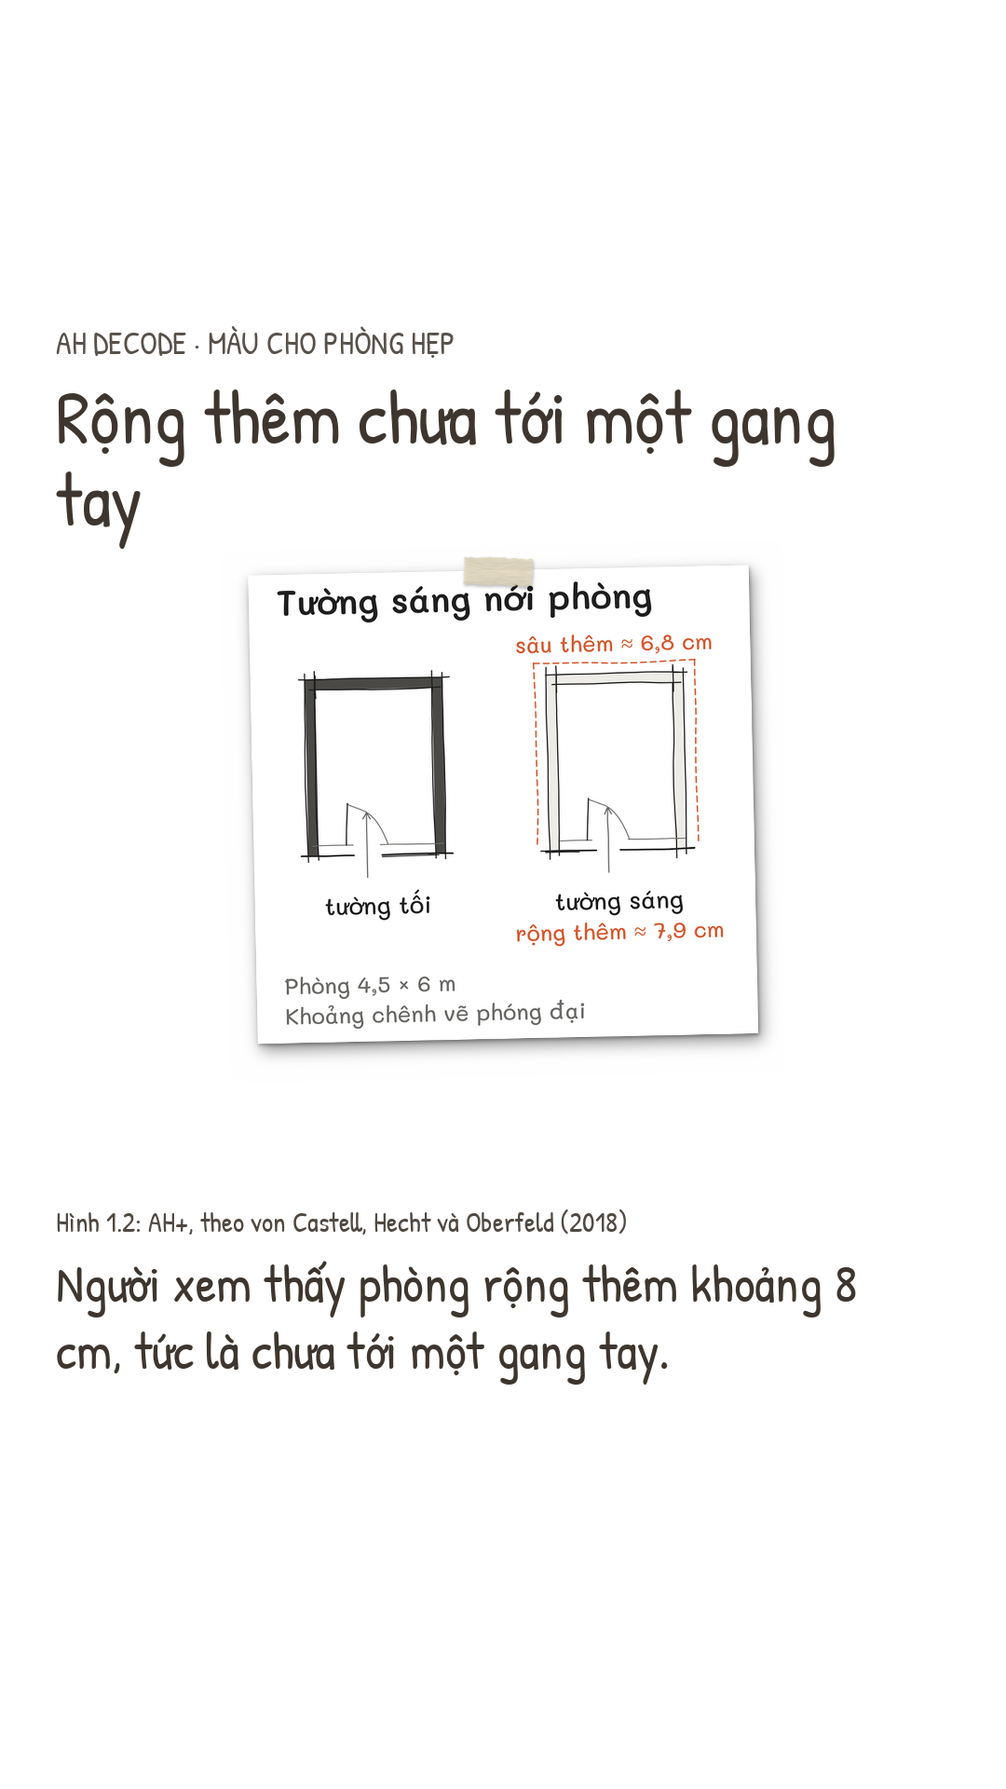
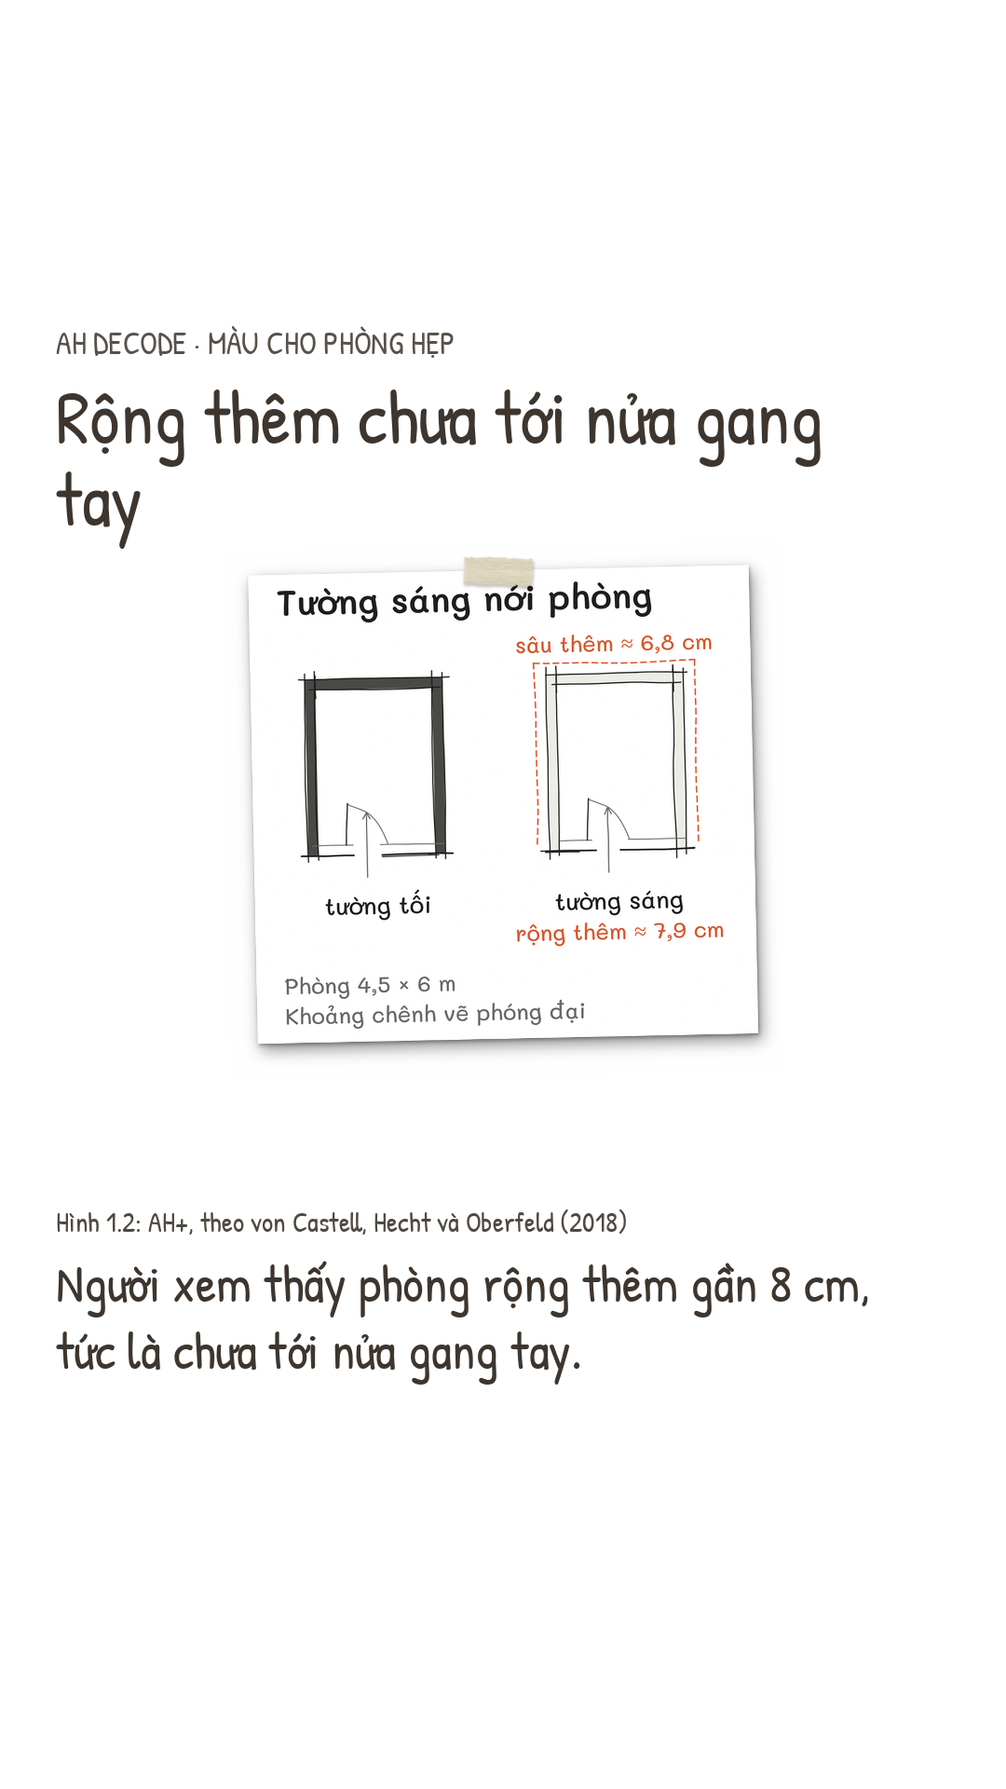
Tập 14 bản 5 (đang chấm): sửa theo lượt chấm 4
Claude-Session: https://claude.ai/code/session_019AkacrN2cHr4dR9oivn2Ju

Changed region(s): [[0.0611, 0.75, 0.6722, 0.7812], [0.6722, 0.6875, 0.8556, 0.75], [0.5806, 0.2188, 0.825, 0.2812]]

diff --git a/inbox/out/2026-10-28_tuong-sang-phong-rong/engine_ep14/gen_ep14.py b/inbox/out/2026-10-28_tuong-sang-phong-rong/engine_ep14/gen_ep14.py
@@ -50,26 +50,32 @@ SC = [
     dict(move="push", part="A", blk=1, img="hanh", head="Phòng hẹp và màu sơn trắng", cam=STRIP(600, 715, 0.545, 865), free=True, dark=False, dd=[],
          vo="Sơn trắng cho phòng hẹp trông rộng hơn, nhưng rộng thêm được bao nhiêu?"),
     dict(move="push", part="C", blk=2, img="dg", head="Thí nghiệm của von Castell và cộng sự (2018)", cam=STRIP(324, 303, 0.56, 863), free=True, dark=False, dd=[],
-         vo="Năm 2018, nhóm của von Castell thử sơn sáng hơn hai bức tường bên của một căn phòng.",
-         tts="Năm hai nghìn không trăm mười tám, nhóm của phôn Cát-xten thử sơn sáng hơn hai bức tường bên của một căn phòng."),
-    dict(move="pan_r", part="C", blk=2, img="dg", head="Rộng thêm chưa tới một gang tay", cam=STRIP(324, 303, 0.56, 863), free=True, dark=False, dd=[],
-         vo="Người xem thấy phòng rộng thêm khoảng 8 cm, tức là chưa tới một gang tay.",
-         tts="Người xem thấy phòng rộng thêm khoảng tám xăng-ti-mét, tức là chưa tới một gang tay."),
-    dict(move="pan_d", part="C", blk=3, img="khe", head="Tường và trần càng sáng càng tốt", cam=STRIP(582, 550, 0.57, 863), free=True, dark=True, dd=["a_tran", "lab_tran", "a_tuong", "lab_tuong"],
-         vo="Nghĩa là sơn trắng có giúp, nhưng chỉ giúp một chút, và nhóm này khuyên sơn tường và trần sáng nhất có thể."),
+         vo="Năm 2018, nhóm của von Castell thử sơn sáng hơn hai bức tường bên của một căn phòng ảo cỡ thật.",
+         tts="Năm hai nghìn không trăm mười tám, nhóm của phôn Cát-xten thử sơn sáng hơn hai bức tường bên của một căn phòng ảo cỡ thật."),
+    dict(move="pan_r", part="C", blk=2, img="dg", head="Rộng thêm chưa tới nửa gang tay", cam=STRIP(324, 303, 0.56, 863), free=True, dark=False, dd=[],
+         vo="Người xem thấy phòng rộng thêm gần 8 cm, tức là chưa tới nửa gang tay.",
+         tts="Người xem thấy phòng rộng thêm gần tám xăng-ti-mét, tức là chưa tới nửa gang tay."),
+    dict(move="pan_d", part="C", blk=3, img="khe", head="Sơn sáng chỉ nới phòng một chút", cam=STRIP(582, 550, 0.57, 863), free=True, dark=True, dd=[],
+         vo="Nghĩa là sơn sáng có làm phòng trông rộng hơn, nhưng chỉ một chút."),
+    dict(move="hold", part="C", blk=3, img="khe", head="Tường và trần càng sáng càng tốt", cam=STRIP(582, 550, 0.57, 863), free=True, dark=True, dd=["a_tran", "lab_tran", "a_tuong", "lab_tuong"],
+         vo="Dù vậy, chính nhóm này vẫn khuyên sơn tường và trần sáng nhất có thể."),
     dict(move="push", part="F", blk=3, img="hanh", head="Áp dụng ở nhà mình", cam=STRIP(600, 715, 0.545, 865), free=True, dark=True, dd=["khuon", "len_l", "len_r", "lab_cung"],
          vo="Ở nhà mình, nên sơn tường, khuôn cửa và len chân tường cùng một màu sáng, để cả phòng cùng sáng."),
     dict(move="push", part="D", blk=4, img="banan", head="Ánh sáng phải vào nhà trước", cam=STRIP(600, 474, 0.68, 863), free=True, dark=True, dd=["a_kinh", "lab_vao"],
          vo="Nhưng sơn chỉ giữ lại được ánh sáng đã vào nhà."),
+    dict(move="hold", part="D", blk=4, img="banan", head="Pawson House, London (1997–1999)", cam=STRIP(600, 474, 0.68, 863), free=True, dark=True, dd=[],
+         vo="Nhà riêng của kiến trúc sư John Pawson ở London từng có nhiều phòng nhỏ và tối.",
+         tts="Nhà riêng của kiến trúc sư Giôn Pô-xơn ở Luân Đôn từng có nhiều phòng nhỏ và tối."),
     dict(move="hold", part="D", blk=4, img="banan", head="Pawson House, London (1997–1999)", cam=STRIP(600, 474, 0.68, 863), free=True, dark=True, dd=["kinh", "lab_kinh"],
-         vo="Ở nhà riêng của kiến trúc sư John Pawson tại London, ánh sáng vào qua vách kính ra vườn,",
-         tts="Ở nhà riêng của kiến trúc sư Giôn Pô-xơn tại Luân Đôn, ánh sáng vào qua vách kính ra vườn,"),
+         vo="Khi cải tạo, ông mở vách kính ra vườn cho ánh sáng vào,"),
     dict(move="push", part="D", blk=4, img="thang", head="Tường trắng và sàn đá", cam=STRIP(316, 280, 0.57, 863), free=True, dark=True, dd=["tw", "lab_tw"],
          vo="rồi tường sơn trắng"),
     dict(move="pan_r", part="D", blk=4, img="bep", head="Tường trắng và sàn đá", cam=STRIP(600, 474, 0.68, 863), free=True, dark=True, dd=["san", "lab_san"],
          vo="và sàn lát đá giữ ánh sáng ấy lại."),
     dict(move="pull", part="H", blk=5, img="hanh", head="Thứ tự cho phòng hẹp", cam=STRIP(600, 715, 0.545, 865), free=True, dark=False, dd=[],
-         vo="Vậy với phòng hẹp, hãy lo ánh sáng trước, rồi mới chọn màu sơn thật sáng."),
+         vo="Vậy với phòng hẹp, hãy lo đưa ánh sáng vào trước,"),
+    dict(move="hold", part="H", blk=5, img="hanh", head="Thứ tự cho phòng hẹp", cam=STRIP(600, 715, 0.545, 865), free=True, dark=False, dd=[],
+         vo="như bỏ bớt vách ngăn hay thêm đèn hắt tường ở cuối phòng, rồi mới chọn màu sơn thật sáng."),
     dict(move="push", part="I", blk=5, img="banan", head="end", cam="END", dark=False, vo="", dd=[],
          say="Sổ tay Công thức chọn màu nội thất dành cho thành viên có bảng tra nhanh mười bảy tình huống chọn màu, mọi người xem ở phần bình luận."),
 ]

diff --git a/inbox/out/2026-10-28_tuong-sang-phong-rong/engine_ep14/engine_ep14_r03_khe.py b/inbox/out/2026-10-28_tuong-sang-phong-rong/engine_ep14/engine_ep14_r03_khe.py
@@ -551,11 +551,13 @@ OBJ = {}
 
 WIDE = WIDE_SAFE
 SCENES = [
-    dict(t="0–5.7s", head="Rộng thêm chưa tới một gang tay", vo="Người xem thấy phòng rộng thêm khoảng 8 cm, tức là chưa tới một gang tay.",
+    dict(t="0–5.7s", head="Rộng thêm chưa tới nửa gang tay", vo="Người xem thấy phòng rộng thêm gần 8 cm, tức là chưa tới nửa gang tay.",
          cam=((582, 550), 0.57, (540, 863)), dark=False, dd=[], move="hold"),
-    dict(t="5.7–13.59s", head="Tường và trần càng sáng càng tốt", vo="Nghĩa là sơn trắng có giúp, nhưng chỉ giúp một chút, và nhóm này khuyên sơn tường và trần sáng nhất có thể.",
-         cam=((582, 550), 0.57, (540, 863)), dark=True, dd=['a_tran', 'lab_tran', 'a_tuong', 'lab_tuong'], move="pan_d"),
-    dict(t="13.59–14.09s", head="end", vo="",
+    dict(t="5.7–10.77s", head="Sơn sáng chỉ nới phòng một chút", vo="Nghĩa là sơn sáng có làm phòng trông rộng hơn, nhưng chỉ một chút.",
+         cam=((582, 550), 0.57, (540, 863)), dark=True, dd=[], move="pan_d"),
+    dict(t="10.77–16.16s", head="Tường và trần càng sáng càng tốt", vo="Dù vậy, chính nhóm này vẫn khuyên sơn tường và trần sáng nhất có thể.",
+         cam=((582, 550), 0.57, (540, 863)), dark=True, dd=['a_tran', 'lab_tran', 'a_tuong', 'lab_tuong'], move="hold"),
+    dict(t="16.16–16.66s", head="end", vo="",
          cam=END_SAFE, dark=False, dd=[], move="hold"),
 ]
 END = len(SCENES) - 1

diff --git a/inbox/out/2026-10-28_tuong-sang-phong-rong/engine_ep14/engine_video_ep14_r03_khe.py b/inbox/out/2026-10-28_tuong-sang-phong-rong/engine_ep14/engine_video_ep14_r03_khe.py
@@ -552,11 +552,13 @@ OBJ = {}
 
 WIDE = WIDE_SAFE
 SCENES = [
-    dict(t="0–5.7s", head="Rộng thêm chưa tới một gang tay", vo="Người xem thấy phòng rộng thêm khoảng 8 cm, tức là chưa tới một gang tay.",
+    dict(t="0–5.7s", head="Rộng thêm chưa tới nửa gang tay", vo="Người xem thấy phòng rộng thêm gần 8 cm, tức là chưa tới nửa gang tay.",
          cam=((582, 550), 0.57, (540, 863)), dark=False, dd=[], move="hold"),
-    dict(t="5.7–13.59s", head="Tường và trần càng sáng càng tốt", vo="Nghĩa là sơn trắng có giúp, nhưng chỉ giúp một chút, và nhóm này khuyên sơn tường và trần sáng nhất có thể.",
-         cam=((582, 550), 0.57, (540, 863)), dark=True, dd=['a_tran', 'lab_tran', 'a_tuong', 'lab_tuong'], move="pan_d"),
-    dict(t="13.59–14.09s", head="end", vo="",
+    dict(t="5.7–10.77s", head="Sơn sáng chỉ nới phòng một chút", vo="Nghĩa là sơn sáng có làm phòng trông rộng hơn, nhưng chỉ một chút.",
+         cam=((582, 550), 0.57, (540, 863)), dark=True, dd=[], move="pan_d"),
+    dict(t="10.77–16.16s", head="Tường và trần càng sáng càng tốt", vo="Dù vậy, chính nhóm này vẫn khuyên sơn tường và trần sáng nhất có thể.",
+         cam=((582, 550), 0.57, (540, 863)), dark=True, dd=['a_tran', 'lab_tran', 'a_tuong', 'lab_tuong'], move="hold"),
+    dict(t="16.16–16.66s", head="end", vo="",
          cam=END_SAFE, dark=False, dd=[], move="hold"),
 ]
 END = len(SCENES) - 1

diff --git a/inbox/out/2026-10-28_tuong-sang-phong-rong/engine_ep14/engine_ep14_r02_dg.py b/inbox/out/2026-10-28_tuong-sang-phong-rong/engine_ep14/engine_ep14_r02_dg.py
@@ -553,11 +553,11 @@ WIDE = WIDE_SAFE
 SCENES = [
     dict(t="0–5.08s", head="Phòng hẹp và màu sơn trắng", vo="Sơn trắng cho phòng hẹp trông rộng hơn, nhưng rộng thêm được bao nhiêu?",
          cam=((324, 303), 0.56, (540, 863)), dark=False, dd=[], move="hold"),
-    dict(t="5.08–11.41s", head="Thí nghiệm của von Castell và cộng sự (2018)", vo="Năm 2018, nhóm của von Castell thử sơn sáng hơn hai bức tường bên của một căn phòng.",
+    dict(t="5.08–12.34s", head="Thí nghiệm của von Castell và cộng sự (2018)", vo="Năm 2018, nhóm của von Castell thử sơn sáng hơn hai bức tường bên của một căn phòng ảo cỡ thật.",
          cam=((324, 303), 0.56, (540, 863)), dark=False, dd=[], move="push"),
-    dict(t="11.41–17.11s", head="Rộng thêm chưa tới một gang tay", vo="Người xem thấy phòng rộng thêm khoảng 8 cm, tức là chưa tới một gang tay.",
+    dict(t="12.34–18.04s", head="Rộng thêm chưa tới nửa gang tay", vo="Người xem thấy phòng rộng thêm gần 8 cm, tức là chưa tới nửa gang tay.",
          cam=((324, 303), 0.56, (540, 863)), dark=False, dd=[], move="pan_r"),
-    dict(t="17.11–17.61s", head="end", vo="",
+    dict(t="18.04–18.54s", head="end", vo="",
          cam=END_SAFE, dark=False, dd=[], move="hold"),
 ]
 END = len(SCENES) - 1

diff --git a/inbox/out/2026-10-28_tuong-sang-phong-rong/engine_ep14/engine_video_ep14_r02_dg.py b/inbox/out/2026-10-28_tuong-sang-phong-rong/engine_ep14/engine_video_ep14_r02_dg.py
@@ -554,11 +554,11 @@ WIDE = WIDE_SAFE
 SCENES = [
     dict(t="0–5.08s", head="Phòng hẹp và màu sơn trắng", vo="Sơn trắng cho phòng hẹp trông rộng hơn, nhưng rộng thêm được bao nhiêu?",
          cam=((324, 303), 0.56, (540, 863)), dark=False, dd=[], move="hold"),
-    dict(t="5.08–11.41s", head="Thí nghiệm của von Castell và cộng sự (2018)", vo="Năm 2018, nhóm của von Castell thử sơn sáng hơn hai bức tường bên của một căn phòng.",
+    dict(t="5.08–12.34s", head="Thí nghiệm của von Castell và cộng sự (2018)", vo="Năm 2018, nhóm của von Castell thử sơn sáng hơn hai bức tường bên của một căn phòng ảo cỡ thật.",
          cam=((324, 303), 0.56, (540, 863)), dark=False, dd=[], move="push"),
-    dict(t="11.41–17.11s", head="Rộng thêm chưa tới một gang tay", vo="Người xem thấy phòng rộng thêm khoảng 8 cm, tức là chưa tới một gang tay.",
+    dict(t="12.34–18.04s", head="Rộng thêm chưa tới nửa gang tay", vo="Người xem thấy phòng rộng thêm gần 8 cm, tức là chưa tới nửa gang tay.",
          cam=((324, 303), 0.56, (540, 863)), dark=False, dd=[], move="pan_r"),
-    dict(t="17.11–17.61s", head="end", vo="",
+    dict(t="18.04–18.54s", head="end", vo="",
          cam=END_SAFE, dark=False, dd=[], move="hold"),
 ]
 END = len(SCENES) - 1

diff --git a/inbox/out/2026-10-28_tuong-sang-phong-rong/engine_ep14/engine_ep14_r04_hanh.py b/inbox/out/2026-10-28_tuong-sang-phong-rong/engine_ep14/engine_ep14_r04_hanh.py
@@ -551,11 +551,11 @@ OBJ = {}
 
 WIDE = WIDE_SAFE
 SCENES = [
-    dict(t="0–7.89s", head="Tường và trần càng sáng càng tốt", vo="Nghĩa là sơn trắng có giúp, nhưng chỉ giúp một chút, và nhóm này khuyên sơn tường và trần sáng nhất có thể.",
+    dict(t="0–5.39s", head="Tường và trần càng sáng càng tốt", vo="Dù vậy, chính nhóm này vẫn khuyên sơn tường và trần sáng nhất có thể.",
          cam=((600, 715), 0.545, (540, 865)), dark=True, dd=[], move="hold"),
-    dict(t="7.89–15.15s", head="Áp dụng ở nhà mình", vo="Ở nhà mình, nên sơn tường, khuôn cửa và len chân tường cùng một màu sáng, để cả phòng cùng sáng.",
+    dict(t="5.39–12.65s", head="Áp dụng ở nhà mình", vo="Ở nhà mình, nên sơn tường, khuôn cửa và len chân tường cùng một màu sáng, để cả phòng cùng sáng.",
          cam=((600, 715), 0.545, (540, 865)), dark=True, dd=['khuon', 'len_l', 'len_r', 'lab_cung'], move="push"),
-    dict(t="15.15–15.65s", head="end", vo="",
+    dict(t="12.65–13.15s", head="end", vo="",
          cam=END_SAFE, dark=False, dd=[], move="hold"),
 ]
 END = len(SCENES) - 1

diff --git a/inbox/out/2026-10-28_tuong-sang-phong-rong/engine_ep14/engine_video_ep14_r04_hanh.py b/inbox/out/2026-10-28_tuong-sang-phong-rong/engine_ep14/engine_video_ep14_r04_hanh.py
@@ -552,11 +552,11 @@ OBJ = {}
 
 WIDE = WIDE_SAFE
 SCENES = [
-    dict(t="0–7.89s", head="Tường và trần càng sáng càng tốt", vo="Nghĩa là sơn trắng có giúp, nhưng chỉ giúp một chút, và nhóm này khuyên sơn tường và trần sáng nhất có thể.",
+    dict(t="0–5.39s", head="Tường và trần càng sáng càng tốt", vo="Dù vậy, chính nhóm này vẫn khuyên sơn tường và trần sáng nhất có thể.",
          cam=((600, 715), 0.545, (540, 865)), dark=True, dd=[], move="hold"),
-    dict(t="7.89–15.15s", head="Áp dụng ở nhà mình", vo="Ở nhà mình, nên sơn tường, khuôn cửa và len chân tường cùng một màu sáng, để cả phòng cùng sáng.",
+    dict(t="5.39–12.65s", head="Áp dụng ở nhà mình", vo="Ở nhà mình, nên sơn tường, khuôn cửa và len chân tường cùng một màu sáng, để cả phòng cùng sáng.",
          cam=((600, 715), 0.545, (540, 865)), dark=True, dd=['khuon', 'len_l', 'len_r', 'lab_cung'], move="push"),
-    dict(t="15.15–15.65s", head="end", vo="",
+    dict(t="12.65–13.15s", head="end", vo="",
          cam=END_SAFE, dark=False, dd=[], move="hold"),
 ]
 END = len(SCENES) - 1

diff --git a/inbox/out/2026-10-28_tuong-sang-phong-rong/engine_ep14/engine_ep14_r05_banan.py b/inbox/out/2026-10-28_tuong-sang-phong-rong/engine_ep14/engine_ep14_r05_banan.py
@@ -555,9 +555,11 @@ SCENES = [
          cam=((600, 474), 0.68, (540, 863)), dark=True, dd=[], move="hold"),
     dict(t="7.26–11.4s", head="Ánh sáng phải vào nhà trước", vo="Nhưng sơn chỉ giữ lại được ánh sáng đã vào nhà.",
          cam=((600, 474), 0.68, (540, 863)), dark=True, dd=['a_kinh', 'lab_vao'], move="push"),
-    dict(t="11.4–18.04s", head="Pawson House, London (1997–1999)", vo="Ở nhà riêng của kiến trúc sư John Pawson tại London, ánh sáng vào qua vách kính ra vườn,",
+    dict(t="11.4–17.41s", head="Pawson House, London (1997–1999)", vo="Nhà riêng của kiến trúc sư John Pawson ở London từng có nhiều phòng nhỏ và tối.",
+         cam=((600, 474), 0.68, (540, 863)), dark=True, dd=[], move="hold"),
+    dict(t="17.41–22.17s", head="Pawson House, London (1997–1999)", vo="Khi cải tạo, ông mở vách kính ra vườn cho ánh sáng vào,",
          cam=((600, 474), 0.68, (540, 863)), dark=True, dd=['kinh', 'lab_kinh'], move="hold"),
-    dict(t="18.04–18.54s", head="end", vo="",
+    dict(t="22.17–22.67s", head="end", vo="",
          cam=END_SAFE, dark=False, dd=[], move="hold"),
 ]
 END = len(SCENES) - 1

diff --git a/inbox/out/2026-10-28_tuong-sang-phong-rong/engine_ep14/engine_video_ep14_r05_banan.py b/inbox/out/2026-10-28_tuong-sang-phong-rong/engine_ep14/engine_video_ep14_r05_banan.py
@@ -556,9 +556,11 @@ SCENES = [
          cam=((600, 474), 0.68, (540, 863)), dark=True, dd=[], move="hold"),
     dict(t="7.26–11.4s", head="Ánh sáng phải vào nhà trước", vo="Nhưng sơn chỉ giữ lại được ánh sáng đã vào nhà.",
          cam=((600, 474), 0.68, (540, 863)), dark=True, dd=['a_kinh', 'lab_vao'], move="push"),
-    dict(t="11.4–18.04s", head="Pawson House, London (1997–1999)", vo="Ở nhà riêng của kiến trúc sư John Pawson tại London, ánh sáng vào qua vách kính ra vườn,",
+    dict(t="11.4–17.41s", head="Pawson House, London (1997–1999)", vo="Nhà riêng của kiến trúc sư John Pawson ở London từng có nhiều phòng nhỏ và tối.",
+         cam=((600, 474), 0.68, (540, 863)), dark=True, dd=[], move="hold"),
+    dict(t="17.41–22.17s", head="Pawson House, London (1997–1999)", vo="Khi cải tạo, ông mở vách kính ra vườn cho ánh sáng vào,",
          cam=((600, 474), 0.68, (540, 863)), dark=True, dd=['kinh', 'lab_kinh'], move="hold"),
-    dict(t="18.04–18.54s", head="end", vo="",
+    dict(t="22.17–22.67s", head="end", vo="",
          cam=END_SAFE, dark=False, dd=[], move="hold"),
 ]
 END = len(SCENES) - 1

diff --git a/inbox/out/2026-10-28_tuong-sang-phong-rong/engine_ep14/engine_ep14_r08_hanh.py b/inbox/out/2026-10-28_tuong-sang-phong-rong/engine_ep14/engine_ep14_r08_hanh.py
@@ -553,9 +553,11 @@ WIDE = WIDE_SAFE
 SCENES = [
     dict(t="0–3.51s", head="Tường trắng và sàn đá", vo="và sàn lát đá giữ ánh sáng ấy lại.",
          cam=((600, 715), 0.545, (540, 865)), dark=True, dd=[], move="hold"),
-    dict(t="3.51–9.21s", head="Thứ tự cho phòng hẹp", vo="Vậy với phòng hẹp, hãy lo ánh sáng trước, rồi mới chọn màu sơn thật sáng.",
+    dict(t="3.51–7.65s", head="Thứ tự cho phòng hẹp", vo="Vậy với phòng hẹp, hãy lo đưa ánh sáng vào trước,",
          cam=((600, 715), 0.545, (540, 865)), dark=False, dd=[], move="pull"),
-    dict(t="9.21–9.71s", head="end", vo="",
+    dict(t="7.65–14.6s", head="Thứ tự cho phòng hẹp", vo="như bỏ bớt vách ngăn hay thêm đèn hắt tường ở cuối phòng, rồi mới chọn màu sơn thật sáng.",
+         cam=((600, 715), 0.545, (540, 865)), dark=False, dd=[], move="hold"),
+    dict(t="14.6–15.1s", head="end", vo="",
          cam=END_SAFE, dark=False, dd=[], move="hold"),
 ]
 END = len(SCENES) - 1

diff --git a/inbox/out/2026-10-28_tuong-sang-phong-rong/engine_ep14/engine_video_ep14_r08_hanh.py b/inbox/out/2026-10-28_tuong-sang-phong-rong/engine_ep14/engine_video_ep14_r08_hanh.py
@@ -554,9 +554,11 @@ WIDE = WIDE_SAFE
 SCENES = [
     dict(t="0–3.51s", head="Tường trắng và sàn đá", vo="và sàn lát đá giữ ánh sáng ấy lại.",
          cam=((600, 715), 0.545, (540, 865)), dark=True, dd=[], move="hold"),
-    dict(t="3.51–9.21s", head="Thứ tự cho phòng hẹp", vo="Vậy với phòng hẹp, hãy lo ánh sáng trước, rồi mới chọn màu sơn thật sáng.",
+    dict(t="3.51–7.65s", head="Thứ tự cho phòng hẹp", vo="Vậy với phòng hẹp, hãy lo đưa ánh sáng vào trước,",
          cam=((600, 715), 0.545, (540, 865)), dark=False, dd=[], move="pull"),
-    dict(t="9.21–9.71s", head="end", vo="",
+    dict(t="7.65–14.6s", head="Thứ tự cho phòng hẹp", vo="như bỏ bớt vách ngăn hay thêm đèn hắt tường ở cuối phòng, rồi mới chọn màu sơn thật sáng.",
+         cam=((600, 715), 0.545, (540, 865)), dark=False, dd=[], move="hold"),
+    dict(t="14.6–15.1s", head="end", vo="",
          cam=END_SAFE, dark=False, dd=[], move="hold"),
 ]
 END = len(SCENES) - 1

diff --git a/inbox/out/2026-10-28_tuong-sang-phong-rong/engine_ep14/engine_ep14_r06_thang.py b/inbox/out/2026-10-28_tuong-sang-phong-rong/engine_ep14/engine_ep14_r06_thang.py
@@ -551,11 +551,11 @@ OBJ = {}
 
 WIDE = WIDE_SAFE
 SCENES = [
-    dict(t="0–6.64s", head="Pawson House, London (1997–1999)", vo="Ở nhà riêng của kiến trúc sư John Pawson tại London, ánh sáng vào qua vách kính ra vườn,",
+    dict(t="0–4.76s", head="Pawson House, London (1997–1999)", vo="Khi cải tạo, ông mở vách kính ra vườn cho ánh sáng vào,",
          cam=((316, 280), 0.57, (540, 863)), dark=True, dd=[], move="hold"),
-    dict(t="6.64–10.14s", head="Tường trắng và sàn đá", vo="rồi tường sơn trắng",
+    dict(t="4.76–8.26s", head="Tường trắng và sàn đá", vo="rồi tường sơn trắng",
          cam=((316, 280), 0.57, (540, 863)), dark=True, dd=['tw', 'lab_tw'], move="push"),
-    dict(t="10.14–10.64s", head="end", vo="",
+    dict(t="8.26–8.76s", head="end", vo="",
          cam=END_SAFE, dark=False, dd=[], move="hold"),
 ]
 END = len(SCENES) - 1
